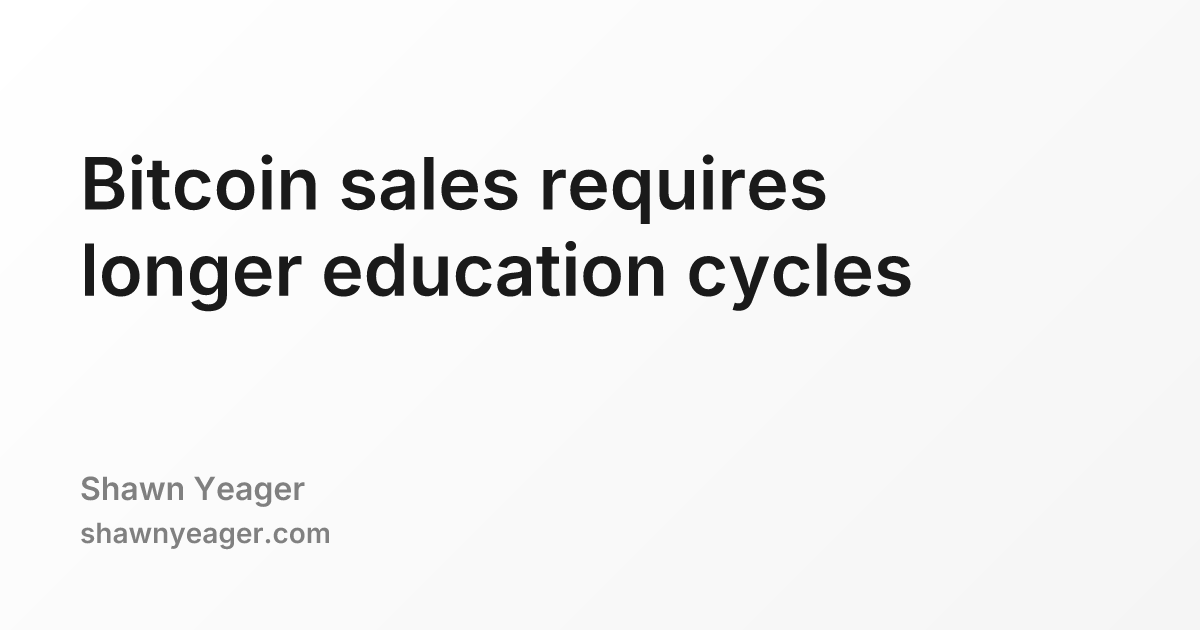
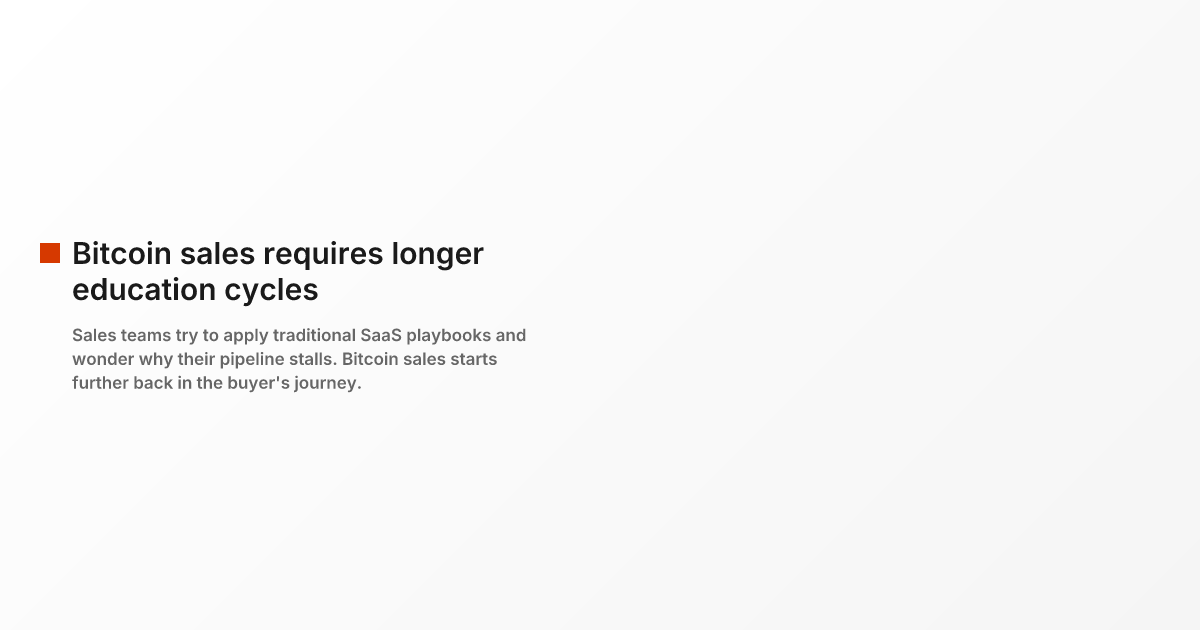
Implement dual-format OG images with optimized social sharing
**Changes:**
- Update generate-og-images.js to create both landscape and square versions
- Landscape (1200×630): For Facebook, LinkedIn, Slack, Discord
- Square (1200×1200): For X/Twitter (no awkward cropping)
- Generated 8 images total (4 notes × 2 formats each)

**Design specs:**
- Landscape: 20px orange square, 30px title, 17px description, 40px padding
- Square: 22px orange square, 35px title, 18px description, 60px padding
- Description color: #666666 (better readability than #808080)
- Author byline removed (URL provides attribution)
- Left-aligned layout with orange square beside title

**Image sizes:**
- Landscape: ~34-39 KB each
- Square: ~44-50 KB each
- Total: ~775 KB for all images

**Theme update:**
- Update to tangerine-theme v1.25.0 (adds Twitter Card square image support)

🤖 Generated with [Claude Code](https://claude.com/claude-code)

Changed region(s): [[0.0308, 0.3619, 0.7708, 0.6333], [0.0617, 0.2413, 0.7092, 0.3619], [0.0617, 0.754, 0.2775, 0.8746]]

diff --git a/scripts/generate-og-images.js b/scripts/generate-og-images.js
@@ -14,11 +14,29 @@ const FONT_PATH = "./assets/fonts/Inter-SemiBold.otf";
 // Design tokens from tangerine-theme
 const COLORS = {
   textPrimary: "#1a1a1a",
-  textSecondary: "#808080",
+  textSecondary: "#666666",
   accent: "#d63900",
   bgPrimary: "#ffffff",
   bgSecondary: "#f5f5f5",
 };
+
+async function generateImage(template, width, height, fontData) {
+  const svg = await satori(template, {
+    width,
+    height,
+    fonts: [
+      {
+        name: "Inter",
+        data: fontData,
+        weight: 600,
+        style: "normal",
+      },
+    ],
+  });
+
+  const resvg = new Resvg(svg);
+  return resvg.render().asPng();
+}
 
 async function main() {
   console.log("🎨 Generating Open Graph images for notes...\n");
@@ -36,7 +54,7 @@ async function main() {
     console.log(`✓ Loaded font: ${FONT_PATH}\n`);
   } catch (error) {
     console.error(`✗ Error loading font from ${FONT_PATH}`);
-    console.error(`  Please ensure Inter-SemiBold.ttf exists at this location.`);
+    console.error(`  Please ensure Inter-SemiBold.otf exists at this location.`);
     process.exit(1);
   }
 
@@ -44,7 +62,7 @@ async function main() {
   const files = await readdir(CONTENT_DIR);
   const markdownFiles = files.filter((file) => file.endsWith(".md") && !file.startsWith("_"));
 
-  console.log(`Found ${markdownFiles.length} essay(s) to process:\n`);
+  console.log(`Found ${markdownFiles.length} note(s) to process:\n`);
 
   for (const file of markdownFiles) {
     const filePath = join(CONTENT_DIR, file);
@@ -55,82 +73,122 @@ async function main() {
       const content = await readFile(filePath, "utf-8");
       const { data } = matter(content);
       const title = data.title || "Untitled";
+      const description = data.description || "";
 
       console.log(`  Processing: ${title}`);
       console.log(`    File: ${file}`);
 
-      // Create HTML template using design tokens
-      const template = html(`
+      // Generate landscape version (1200×630)
+      const landscapeTemplate = html(`
         <div style="
           display: flex;
           width: 1200px;
           height: 630px;
           background: linear-gradient(135deg, ${COLORS.bgPrimary} 0%, ${COLORS.bgSecondary} 100%);
-          padding: 80px;
+          padding: 40px;
           font-family: 'Inter', sans-serif;
         ">
           <div style="
             display: flex;
             flex-direction: column;
-            justify-content: space-between;
+            justify-content: center;
             width: 100%;
           ">
-            <div style="display: flex; flex-direction: column; margin-top: 60px;">
+            <div style="
+              display: flex;
+              align-items: flex-start;
+              gap: 12px;
+              margin-bottom: 16px;
+            ">
+              <div style="
+                display: flex;
+                width: 20px;
+                height: 20px;
+                background: ${COLORS.accent};
+                margin-top: 8px;
+                flex-shrink: 0;
+              "></div>
               <h1 style="
-                font-size: 72px;
+                font-size: 30px;
                 font-weight: 600;
                 color: ${COLORS.textPrimary};
                 line-height: 1.2;
                 margin: 0;
-                max-width: 900px;
+                max-width: 500px;
               ">${title}</h1>
             </div>
-
-            <div style="
-              display: flex;
-              flex-direction: column;
-              gap: 8px;
-            ">
-              <p style="
-                font-size: 32px;
-                color: ${COLORS.textSecondary};
-                margin: 0;
-              ">Shawn Yeager</p>
-              <p style="
-                font-size: 28px;
-                color: ${COLORS.textSecondary};
-                margin: 0;
-              ">shawnyeager.com</p>
-            </div>
+            <p style="
+              font-size: 17px;
+              color: ${COLORS.textSecondary};
+              line-height: 1.4;
+              margin: 0;
+              max-width: 500px;
+              padding-left: 32px;
+            ">${description}</p>
           </div>
         </div>
       `);
 
-      // Generate SVG using Satori
-      const svg = await satori(template, {
-        width: 1200,
-        height: 630,
-        fonts: [
-          {
-            name: "Inter",
-            data: fontData,
-            weight: 600,
-            style: "normal",
-          },
-        ],
-      });
+      const landscapePng = await generateImage(landscapeTemplate, 1200, 630, fontData);
+      const landscapeOutput = `${slug}.png`;
+      await writeFile(join(OUTPUT_DIR, landscapeOutput), landscapePng);
+      console.log(`    Landscape: ${landscapeOutput} (${(landscapePng.length / 1024).toFixed(1)} KB)`);
 
-      // Convert SVG to PNG using resvg
-      const resvg = new Resvg(svg);
-      const pngBuffer = resvg.render().asPng();
+      // Generate square version (1200×1200)
+      const squareTemplate = html(`
+        <div style="
+          display: flex;
+          width: 1200px;
+          height: 1200px;
+          background: linear-gradient(135deg, ${COLORS.bgPrimary} 0%, ${COLORS.bgSecondary} 100%);
+          padding: 60px;
+          font-family: 'Inter', sans-serif;
+        ">
+          <div style="
+            display: flex;
+            flex-direction: column;
+            justify-content: center;
+            width: 100%;
+          ">
+            <div style="
+              display: flex;
+              align-items: flex-start;
+              gap: 16px;
+              margin-bottom: 24px;
+            ">
+              <div style="
+                display: flex;
+                width: 22px;
+                height: 22px;
+                background: ${COLORS.accent};
+                margin-top: 10px;
+                flex-shrink: 0;
+              "></div>
+              <h1 style="
+                font-size: 35px;
+                font-weight: 600;
+                color: ${COLORS.textPrimary};
+                line-height: 1.2;
+                margin: 0;
+                max-width: 400px;
+              ">${title}</h1>
+            </div>
+            <p style="
+              font-size: 18px;
+              color: ${COLORS.textSecondary};
+              line-height: 1.4;
+              margin: 0;
+              max-width: 400px;
+              padding-left: 38px;
+            ">${description}</p>
+          </div>
+        </div>
+      `);
 
-      // Save to output directory
-      const outputFile = `${slug}.png`;
-      const outputPath = join(OUTPUT_DIR, outputFile);
-      await writeFile(outputPath, pngBuffer);
-
-      const sizeKB = (pngBuffer.length / 1024).toFixed(1);
-      console.log(`    Output: ${outputFile} (${sizeKB} KB)`);
+      const squarePng = await generateImage(squareTemplate, 1200, 1200, fontData);
+      const squareOutput = `${slug}-square.png`;
+      await writeFile(join(OUTPUT_DIR, squareOutput), squarePng);
+      console.log(`    Square: ${squareOutput} (${(squarePng.length / 1024).toFixed(1)} KB)`);
       console.log(`    ✓ Generated successfully\n`);
     } catch (error) {
       console.error(`    ✗ Error processing ${file}:`);
@@ -138,7 +196,7 @@ async function main() {
     }
   }
 
-  console.log(`\n🎉 Done! Generated ${markdownFiles.length} Open Graph image(s).`);
+  console.log(`\n🎉 Done! Generated ${markdownFiles.length * 2} Open Graph image(s).`);
   console.log(`   Output directory: ${OUTPUT_DIR}`);
 }
 
